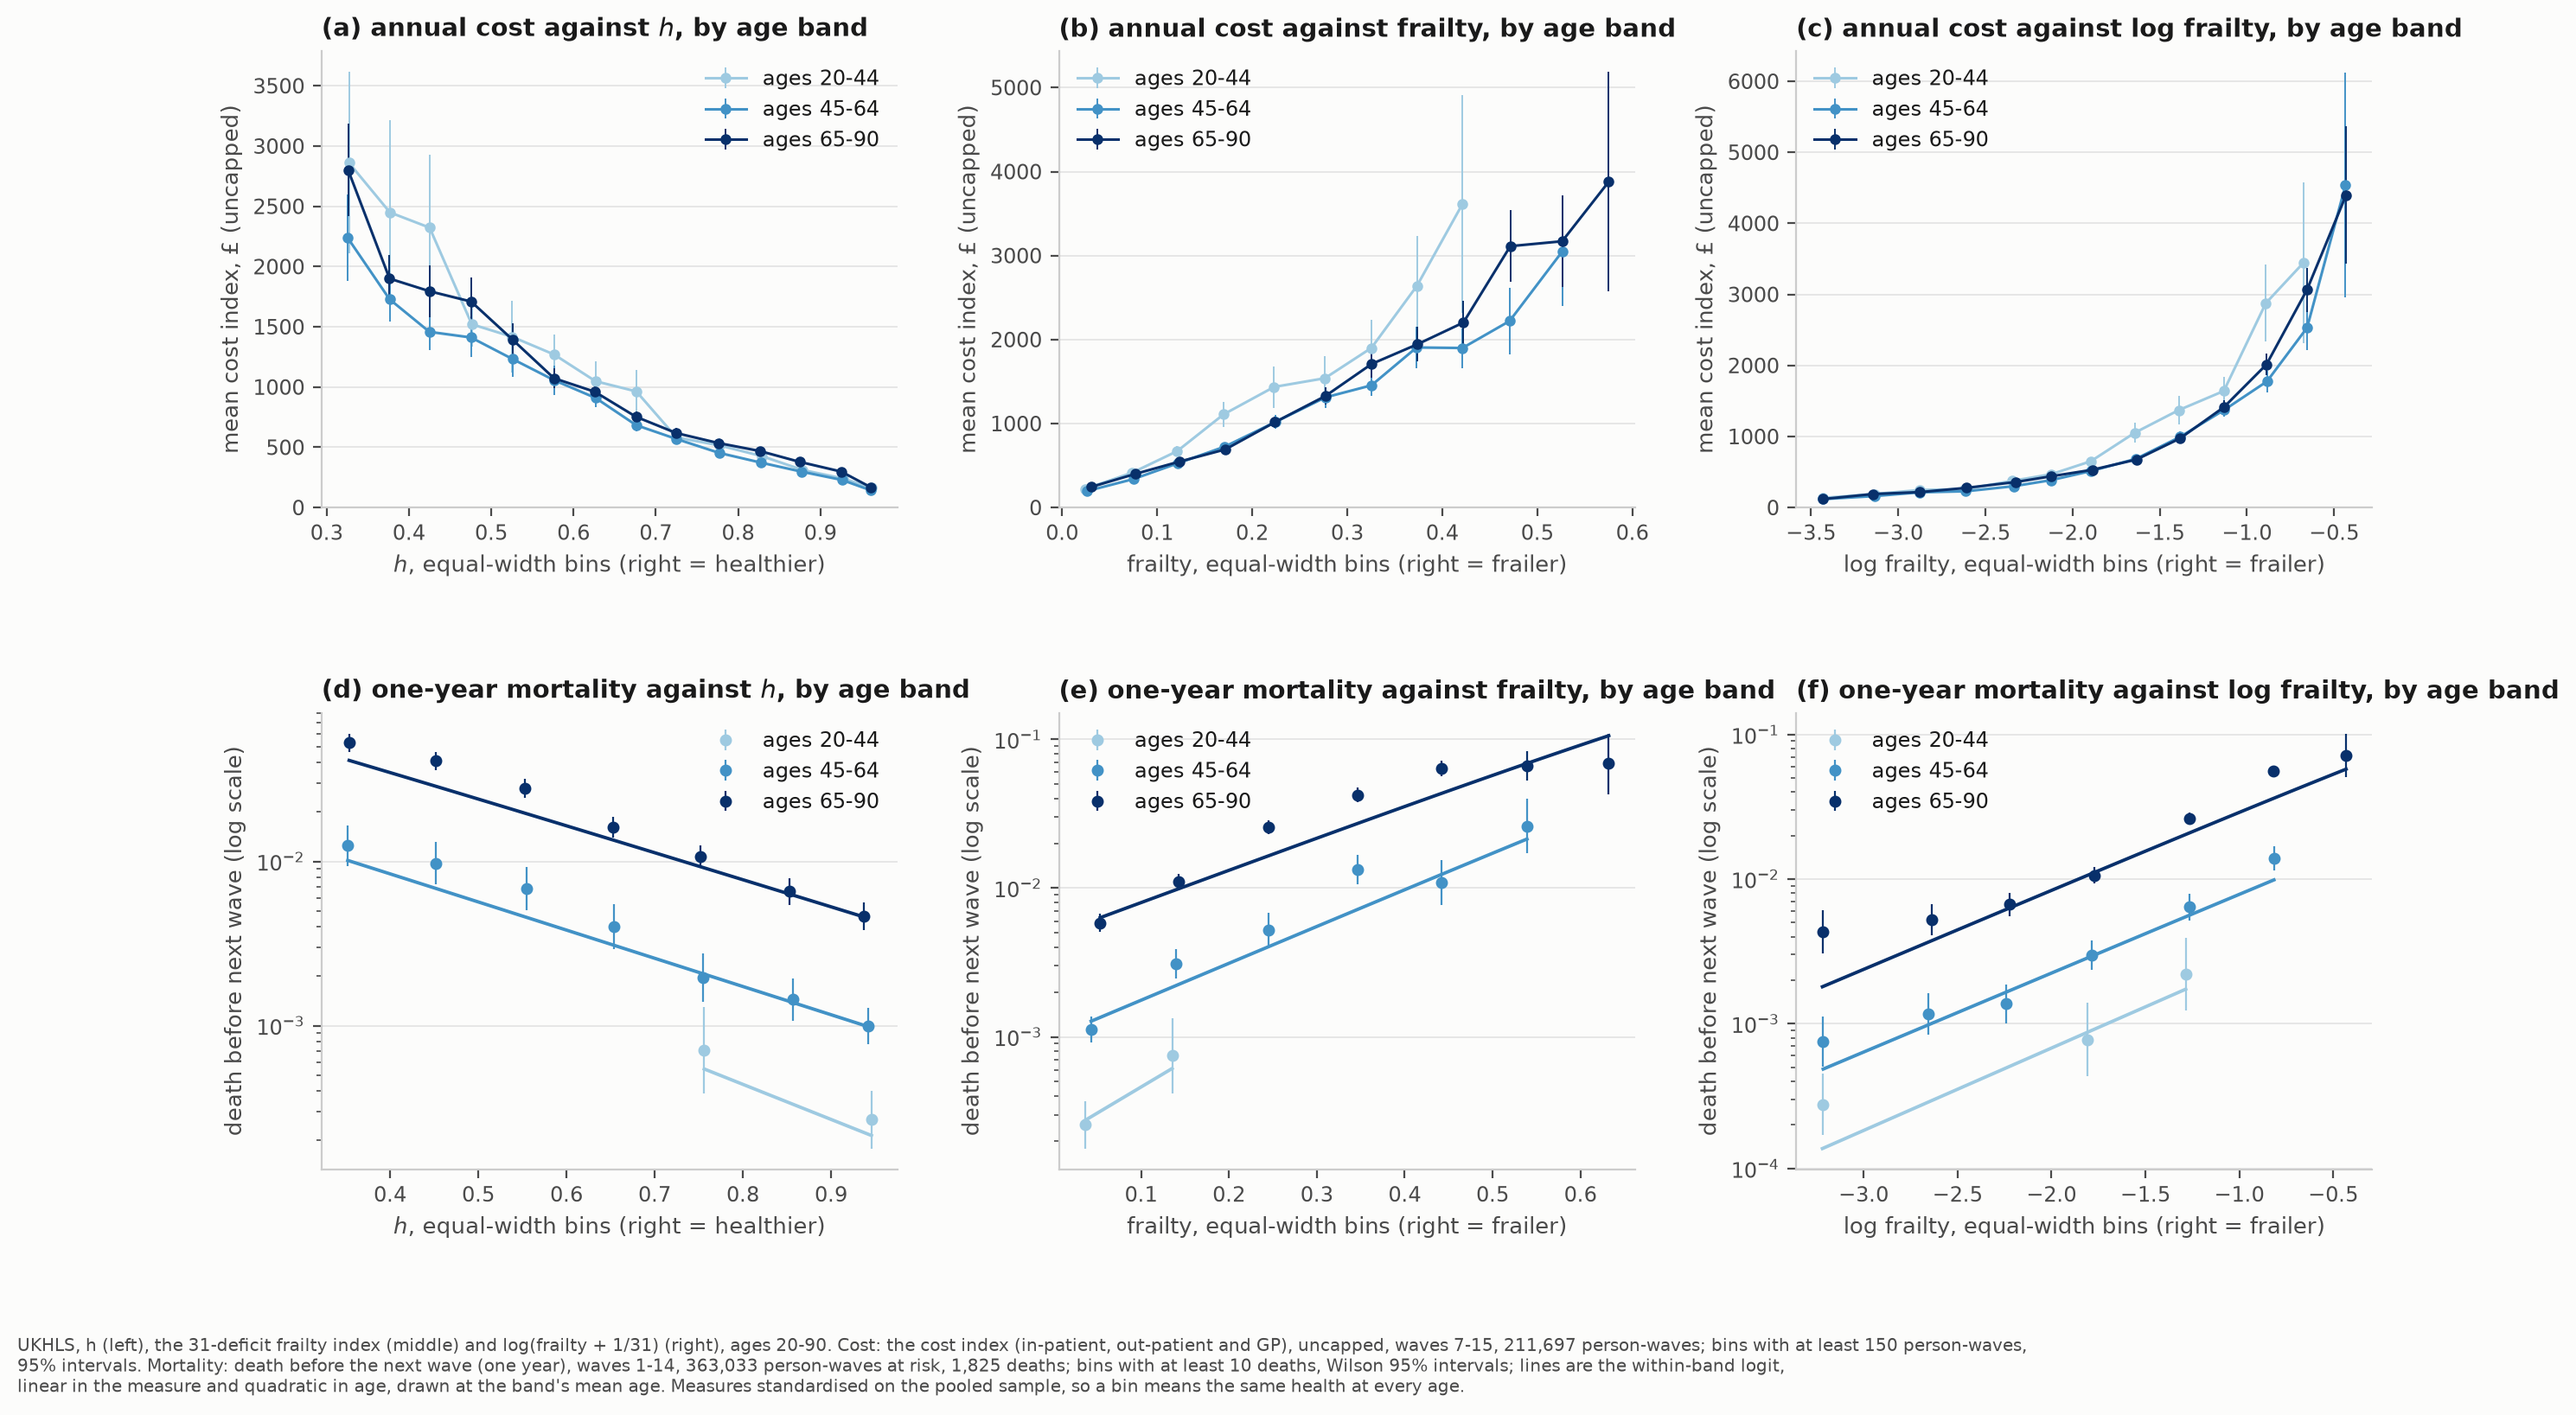
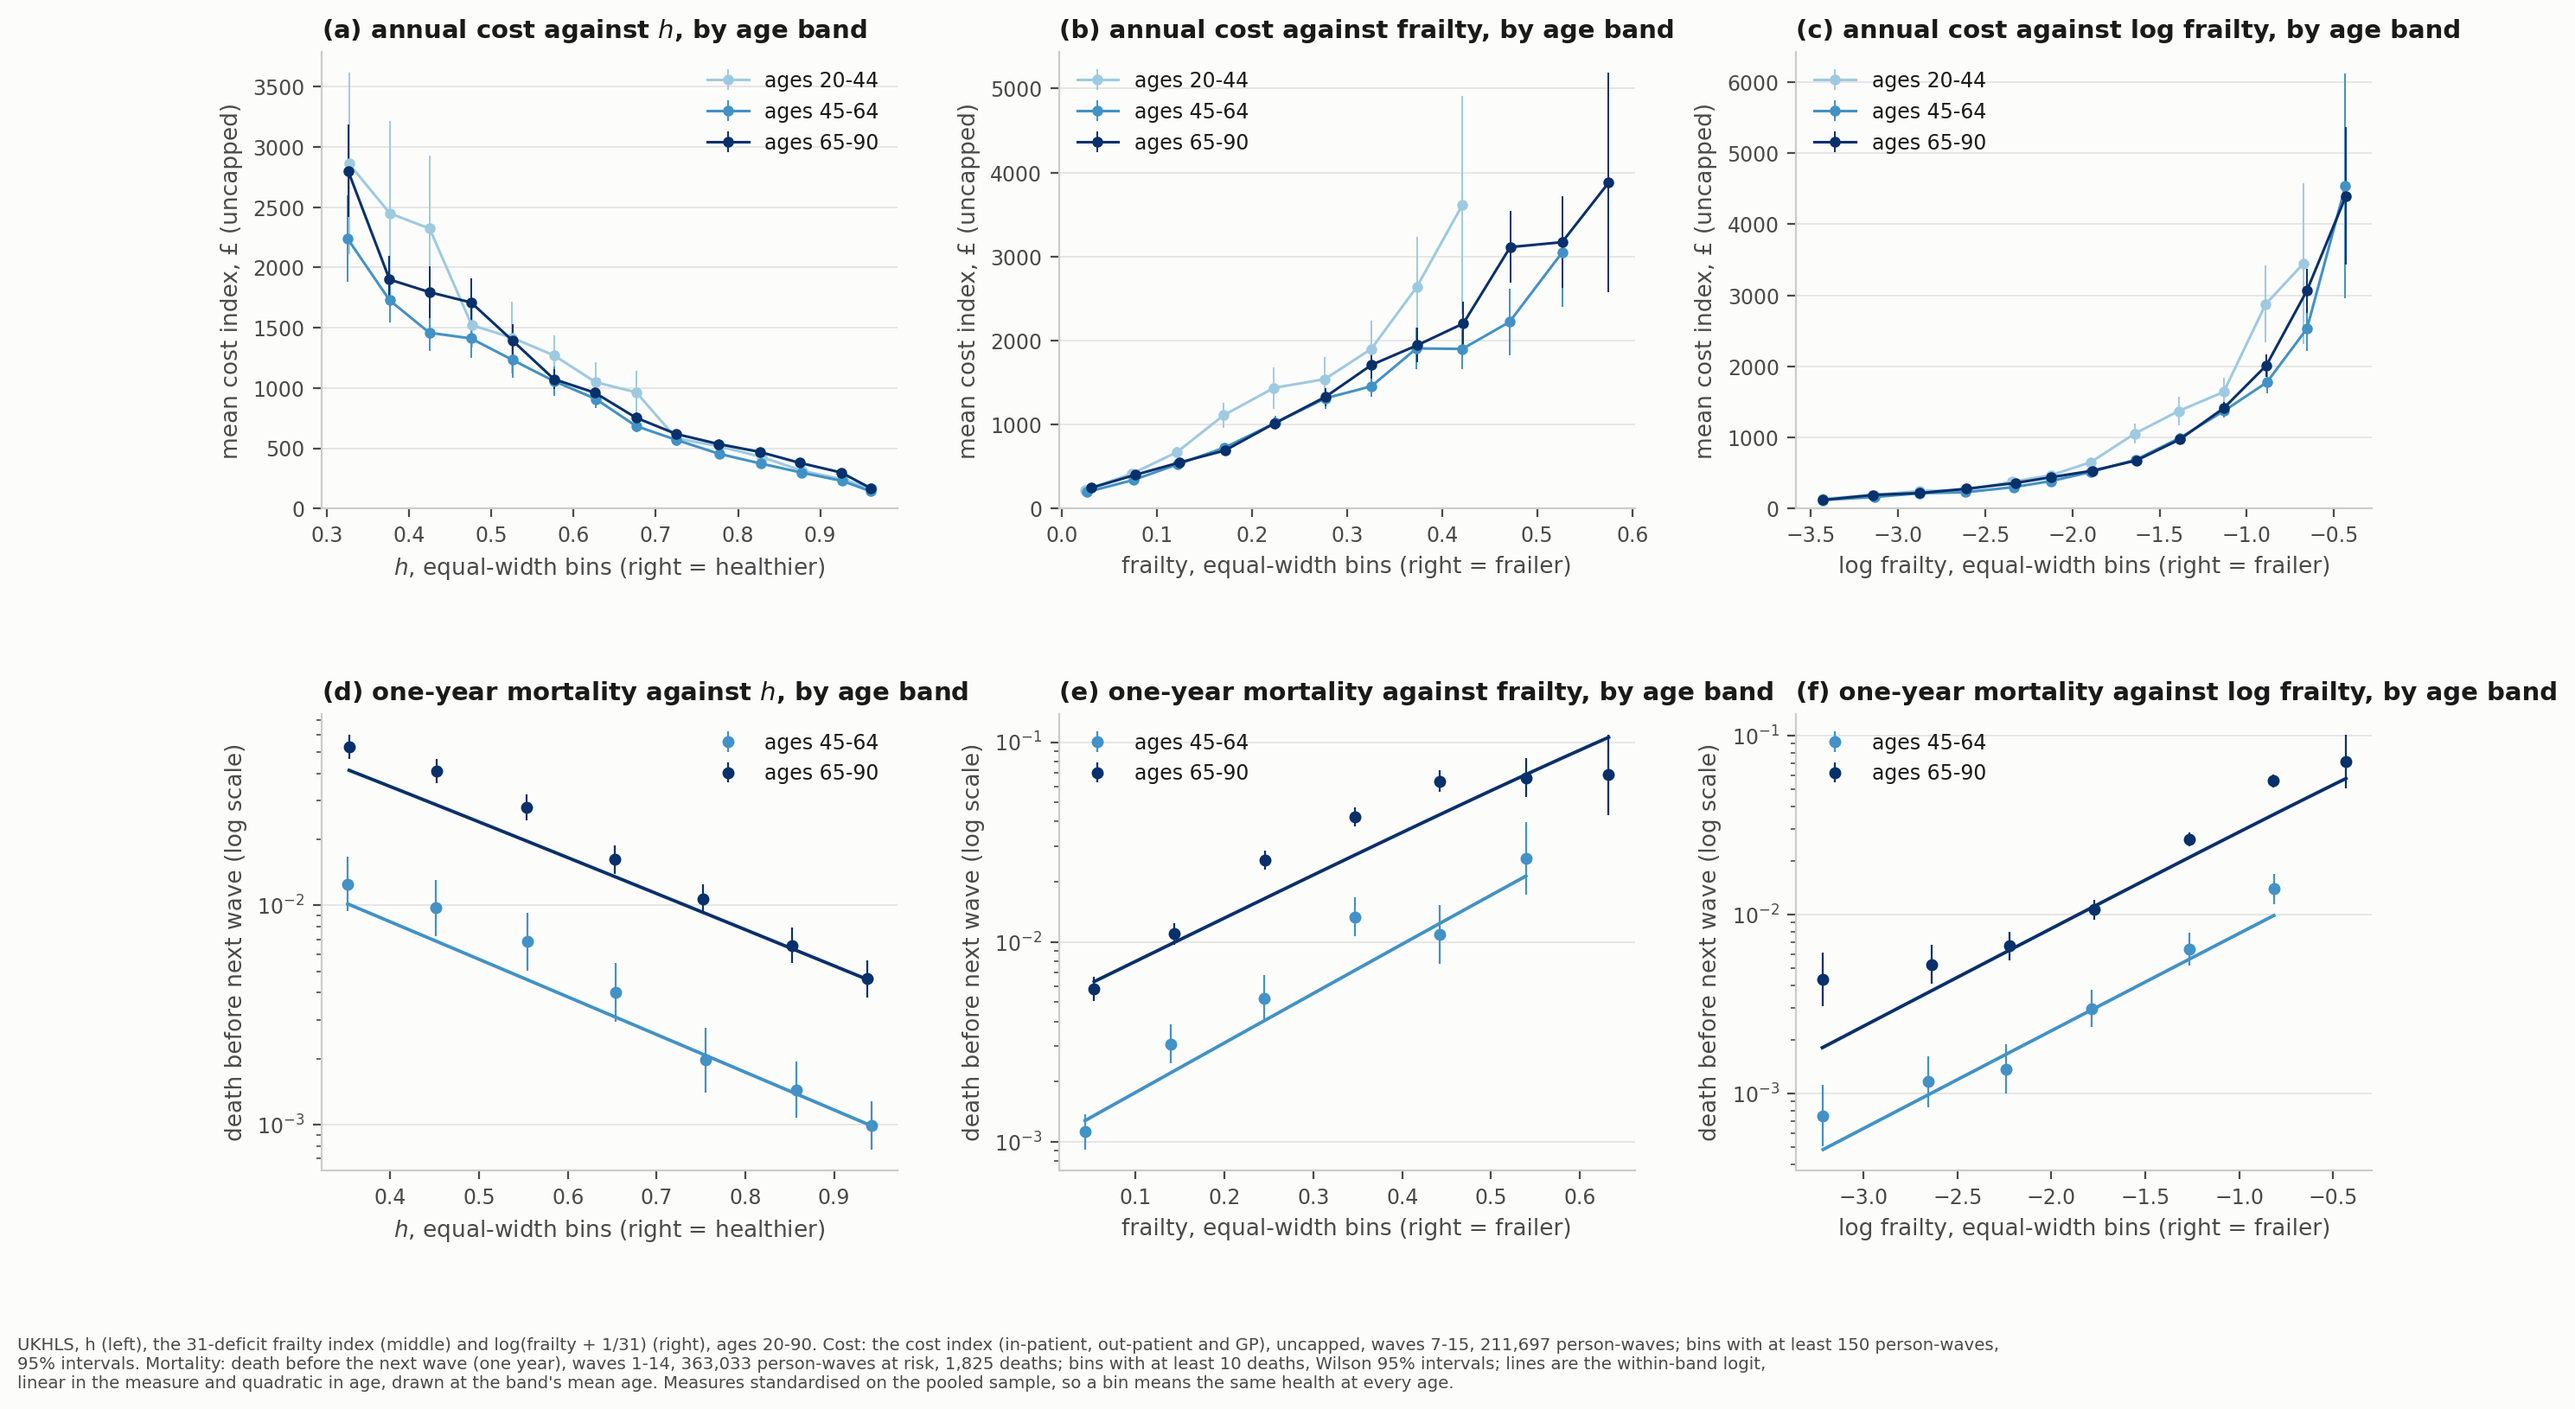
Figure 1: drop the 20-44 mortality band (too few deaths)
Claude-Session: https://claude.ai/code/session_01KuSybU76X361Nwk54WX1KB

diff --git a/descriptives/37_paper_cost_mortality_age.py b/descriptives/37_paper_cost_mortality_age.py
@@ -163,6 +163,8 @@ def main() -> int:
             cost_ax[j].errorbar(g["x"], g["mean"], yerr=1.96 * g["se"], fmt="o-", ms=3.5, lw=1.1, color=col,
                                 elinewidth=0.7, capsize=0, label=f"ages {name}")
             rows += [{"panel": "cost", "variant": v, "band": name, **r} for r in g.reset_index(drop=True).to_dict("records")]
+            if lo < 45:          # too few deaths before 45 to pin down the band's mortality curve
+                continue
             s = m[m["age"].between(lo, hi) & m[v].notna()].assign(bin=lambda x: pd.cut(x[v], EDGES_MORT[v]))
             g = s.groupby("bin", observed=True).agg(x=(v, "mean"), k=("died", "sum"), n=("died", "size"))
             g = g[g["k"] >= 10]
